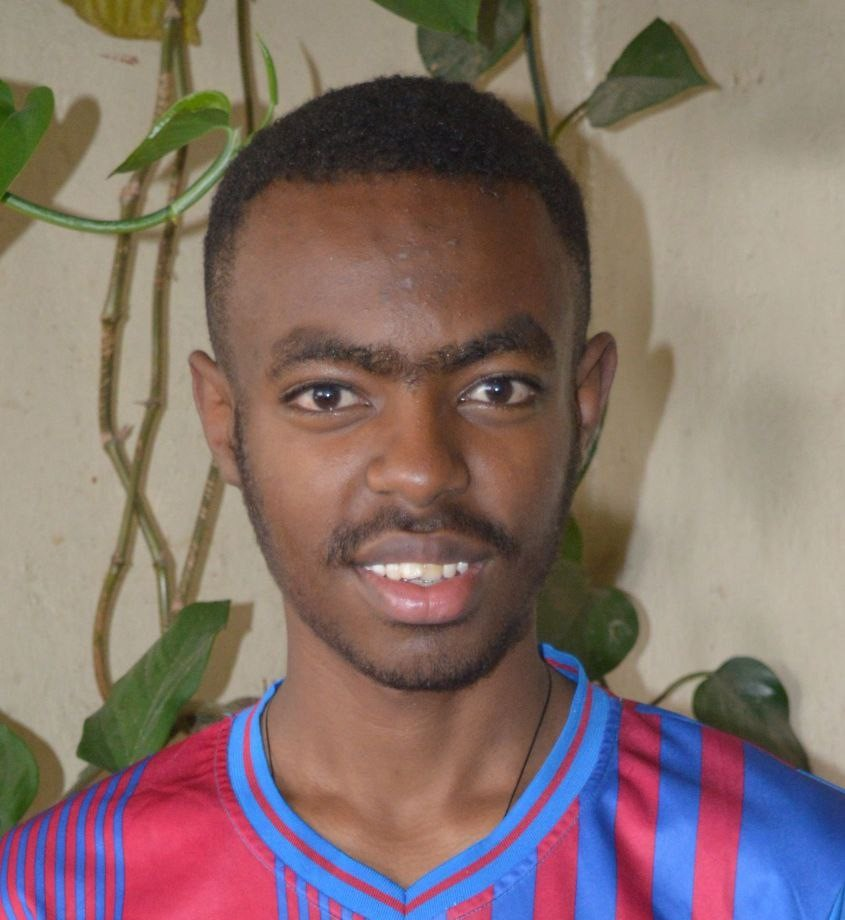
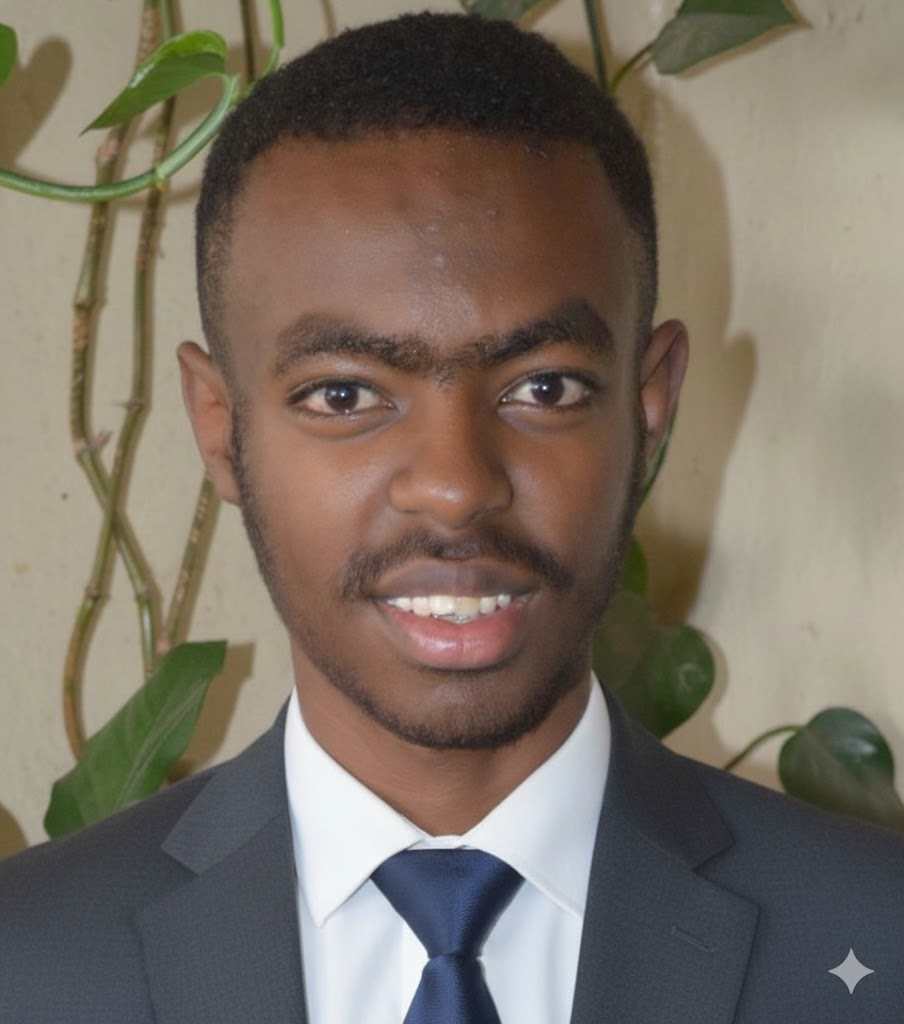
change profile photo

diff --git a/index.html b/index.html
@@ -692,7 +692,7 @@
             <div class="flex flex-col lg:flex-row gap-16 items-center">
                 <div class="lg:w-2/5 flex justify-center group mr-3">
                     <div class="relative floating">
-                        <img src="photo_2025-07-04_00-54-21.jpg" alt="Hiruy Legesse Adane" 
+                        <img src="photo_2025-07-04_00-54-2.jpg" alt="Hiruy Legesse Adane" 
                              class="w-90 h-70 rounded-2xl object-cover border-4 border-primary-500 dark:border-primary-400 shadow-2xl group-hover:border-secondary-500 dark:group-hover:border-secondary-400 transition-all duration-500 profile-glow">
                     </div>
                 </div>
